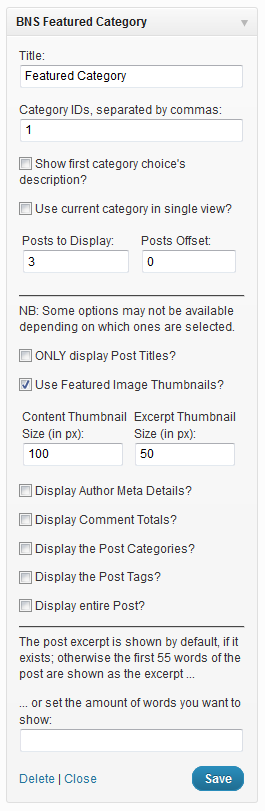
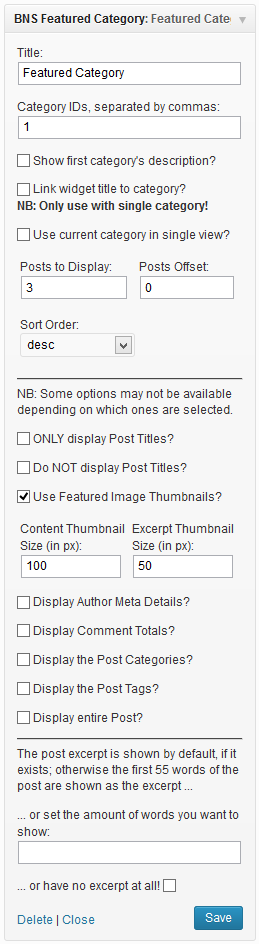
* Add filters to allow modification of author and date post meta details * Add filters to allow modification of category list post meta details

Changed region(s): [[0.0309, 0.0, 0.9884, 0.9864], [0.0, 0.0308, 0.0309, 0.9864], [0.9266, 0.0, 0.9575, 0.0308]]

diff --git a/bns-featured-category.php b/bns-featured-category.php
@@ -57,10 +57,11 @@ License URI: http://www.gnu.org/licenses/old-licenses/gpl-2.0.html
  * @date    November 30, 2012
  * Remove load_plugin_textdomain as redundant
  * Add option to use widget title as link to single category archive
+ * Add filters to allow modification of author and date post meta details
+ * Add filters to allow modification of category list post meta details
  *
  * @todo Review - http://buynowshop.com/plugins/bns-featured-category/comment-page-2/#comment-13468 - date range option(s)?
  * @todo Review implementing use of WP_Query class versus query_posts; using WP_Query currently breaks the shortcode output
- * @todo New screenshot(s) ... dot-org header image, too?
  */
 
 /**
@@ -280,13 +281,13 @@ class BNS_Featured_Category_Widget extends WP_Widget {
                     <?php } ?>
                     <div class="post-details">
                         <?php if ( $show_meta ) {
-                            printf( __( 'by %1$s on %2$s', 'bns-fc' ), get_the_author(), get_the_time( get_option( 'date_format' ) ) ); ?><br />
+                            echo apply_filters( 'bnsfc_show_meta', sprintf( __( 'by %1$s on %2$s', 'bns-fc' ), get_the_author(), get_the_time( get_option( 'date_format' ) ) ) ); ?><br />
                         <?php }
                         if ( ( $show_comments ) && ( ! post_password_required() ) ) {
                             comments_popup_link( __( 'with No Comments', 'bns-fc' ), __( 'with 1 Comment', 'bns-fc' ), __( 'with % Comments', 'bns-fc' ), '', __( 'with Comments Closed', 'bns-fc' ) ); ?><br />
                         <?php }
                         if ( $show_cats ) {
-                            printf( __( 'in %s', 'bns-fc' ), get_the_category_list( ', ' ) ); ?><br />
+                            echo apply_filters( 'bnsfc_show_cats', sprintf( __( 'in %s', 'bns-fc' ), get_the_category_list( ', ' ) ) ); ?><br />
                         <?php }
                         if ( $show_tags ) {
                             the_tags( __( 'as ', 'bns-fc' ), ', ', '' ); ?><br />
@@ -426,7 +427,7 @@ class BNS_Featured_Category_Widget extends WP_Widget {
 
         <p>
             <input class="checkbox" type="checkbox" <?php checked( (bool) $instance['link_title'], true ); ?> id="<?php echo $this->get_field_id( 'link_title' ); ?>" name="<?php echo $this->get_field_name( 'link_title' ); ?>" />
-            <label for="<?php echo $this->get_field_id( 'link_title' ); ?>"><?php _e( 'Link widget title to category?<br /><strong>NB: Only use with single category!</strong>', 'bns-fc' ); ?></label>
+            <label for="<?php echo $this->get_field_id( 'link_title' ); ?>"><?php _e( 'Link widget title to category?<br /><strong>NB: Use a single category choice only!</strong>', 'bns-fc' ); ?></label>
         </p>
 
         <p>
